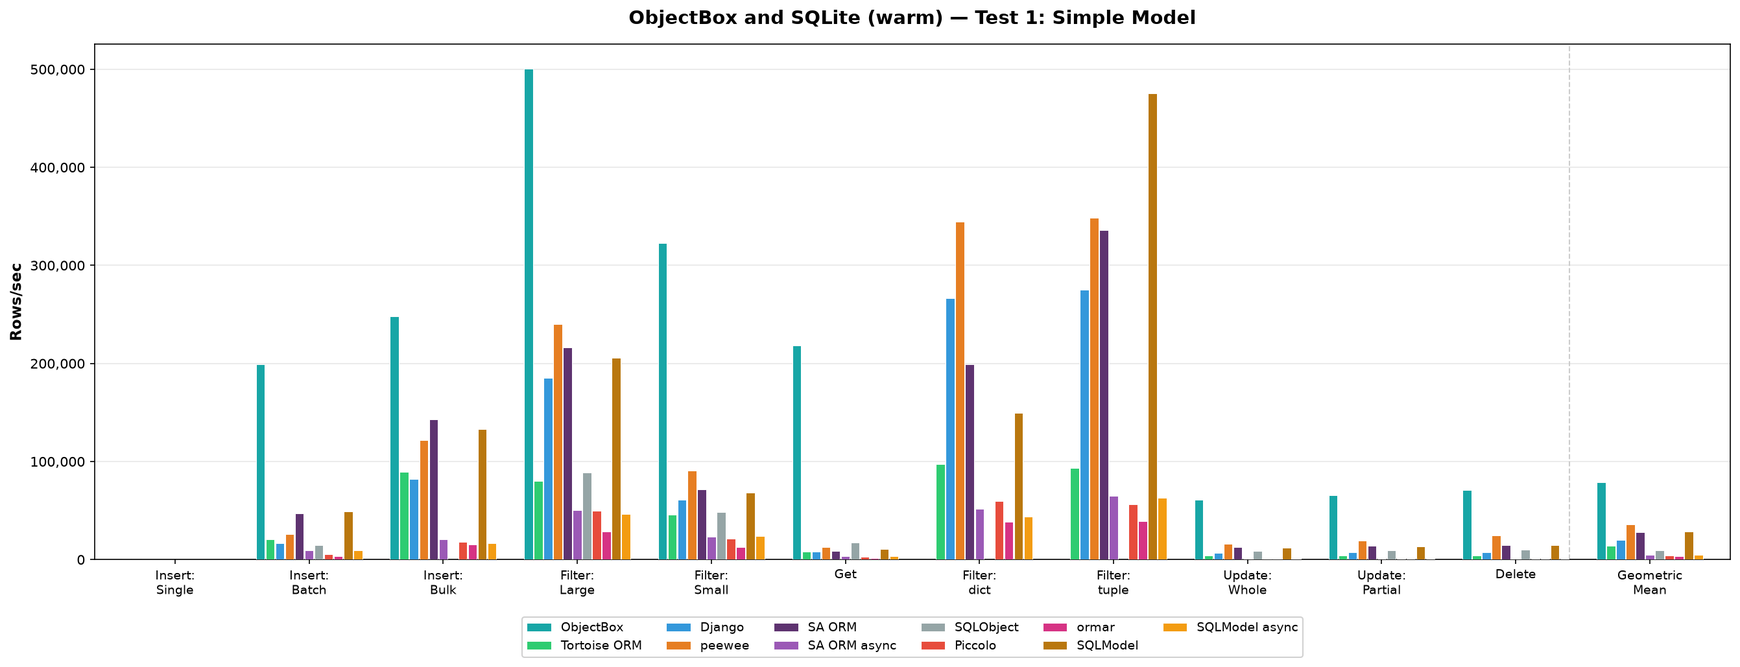
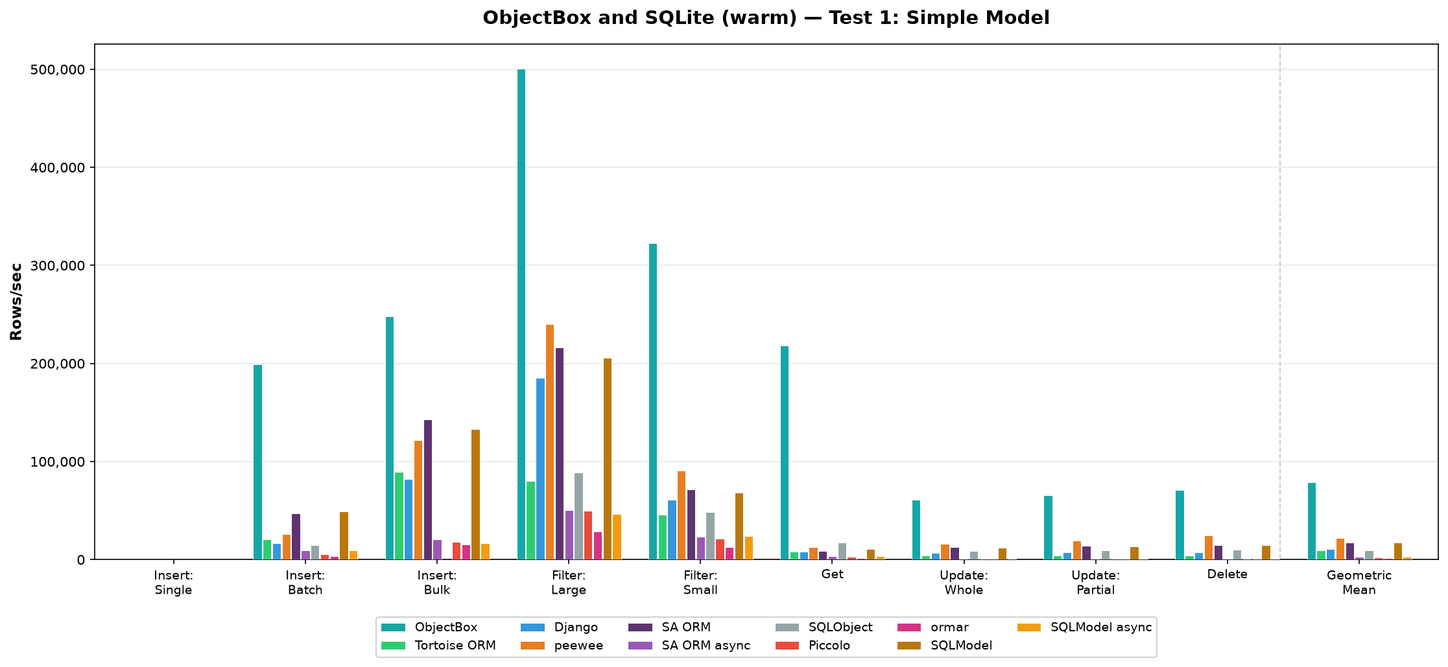
Leave Filter: dict/tuple out of the presented results
G and H return plain rows, not objects. They're still measured (the raw
results keep them), but the tables, charts and geometric means now cover
the 9 object operations (SQLObject: 8), the same set as ObjectBox.

README: regenerated tables and charts, geometric means and analysis
updated; note on peewee's and Tortoise ORM's WAL mode.

diff --git a/generate_charts.py b/generate_charts.py
@@ -41,7 +41,8 @@ ORM_COLORS = {
 }
 
 ORM_ORDER = ["ObjectBox", "Tortoise ORM", "Django", "peewee", "SA ORM", "SA ORM async", "SQLObject", "Piccolo", "ormar", "SQLModel", "SQLModel async"]
-OP_ORDER = list("ABCDEFGHIJK")
+# Filter: dict/tuple (G/H) are measured but not presented: they return plain rows, not objects
+OP_ORDER = list("ABCDEFIJK")
 
 
 def parse_results(filepath):
@@ -52,7 +53,8 @@ def parse_results(filepath):
             m = re.match(r"^\s*(?:\d+[→\t])?\s*(.+?),\s*([A-K]):\s*Rows/sec:\s*([\d.]+)", line)
             if m:
                 orm, op, val = m.group(1).strip(), m.group(2), float(m.group(3))
-                data[orm][op] = val
+                if op in OP_ORDER:
+                    data[orm][op] = val
     return dict(data)
 
 

diff --git a/generate_tables.py b/generate_tables.py
@@ -20,7 +20,8 @@ OP_LABELS = {
 }
 
 ORM_ORDER = ["Django", "peewee", "SA ORM", "SA ORM async", "SQLObject", "Tortoise ORM", "Piccolo", "ormar", "SQLModel", "SQLModel async", "ObjectBox"]
-OP_ORDER = list("ABCDEFGHIJK")
+# Filter: dict/tuple (G/H) are measured but not presented: they return plain rows, not objects
+OP_ORDER = list("ABCDEFIJK")
 
 
 def parse_results(filepath):
@@ -30,7 +31,8 @@ def parse_results(filepath):
             m = re.match(r"^\s*(?:\d+[→\t])?\s*(.+?),\s*([A-K]):\s*Rows/sec:\s*([\d.]+)", line)
             if m:
                 orm, op, val = m.group(1).strip(), m.group(2), float(m.group(3))
-                data[orm][op] = val
+                if op in OP_ORDER:
+                    data[orm][op] = val
     return dict(data)
 
 

diff --git a/README.md b/README.md
@@ -4,7 +4,7 @@ Performance benchmarks of embedded databases in Python: the object database [Obj
 
 Older results for PostgreSQL and MySQL (SQL ORMs only, earlier benchmark version, different machine) are in [postgres-mysql.md](postgres-mysql.md).
 
-Higher is better: rows (objects) per second, as the geometric mean over the operations of each test that the ORM or database supports (ObjectBox and SQLObject leave out a few, see [Setup](#setup)). Each value is the median of 5 full runs.
+Higher is better: rows (objects) per second, as the geometric mean over the 9 object operations of each test (SQLObject has no bulk insert, so its mean covers 8; see [Setup](#setup)). Each value is the median of 5 full runs.
 
 ## Overall results
 
@@ -25,20 +25,20 @@ Geometric means, cold vs. warm:
 | Database / ORM | Test 1 cold | Test 1 warm | Test 2 cold | Test 2 warm | Test 3 cold | Test 3 warm |
 |-----|------------:|------------:|------------:|------------:|------------:|------------:|
 | ObjectBox | **63,985** | **79,130** (×1.24) | **61,832** | **76,823** (×1.24) | **27,535** | **33,852** (×1.23) |
-| Django | 17,724 | 19,674 (×1.11) | 15,328 | 16,584 (×1.08) | 8,502 | 9,019 (×1.06) |
-| peewee | 32,633 | 35,901 (×1.10) | 30,257 | 33,867 (×1.12) | 13,178 | 13,862 (×1.05) |
-| SA ORM | 23,111 | 28,070 (×1.21) | 17,446 | 22,426 (×1.29) | 14,017 | 16,746 (×1.19) |
-| SA ORM async | 4,803 | 4,879 (×1.02) | 4,703 | 4,667 (×0.99) | 3,171 | 3,130 (×0.99) |
+| Django | 9,887 | 10,986 (×1.11) | 8,450 | 9,101 (×1.08) | 5,395 | 5,772 (×1.07) |
+| peewee | 19,539 | 21,691 (×1.11) | 18,323 | 20,728 (×1.13) | 8,904 | 9,407 (×1.06) |
+| SA ORM | 13,955 | 17,136 (×1.23) | 10,486 | 13,072 (×1.25) | 9,648 | 11,645 (×1.21) |
+| SA ORM async | 2,819 | 2,813 (×1.00) | 2,719 | 2,724 (×1.00) | 2,170 | 2,171 (×1.00) |
 | SQLObject | 8,364 | 9,168 (×1.10) | 8,133 | 9,065 (×1.11) | 6,174 | 6,744 (×1.09) |
-| Tortoise ORM | 14,154 | 14,266 (×1.01) | 13,949 | 14,201 (×1.02) | 8,649 | 8,905 (×1.03) |
-| Piccolo | 4,119 | 4,168 (×1.01) | 4,107 | 4,028 (×0.98) | 2,290 | 2,312 (×1.01) |
-| ormar | 3,166 | 3,153 (×1.00) | 3,076 | 3,021 (×0.98) | 1,550 | 1,583 (×1.02) |
-| SQLModel | 23,980 | 28,290 (×1.18) | 23,553 | 27,700 (×1.18) | 13,488 | 15,794 (×1.17) |
-| SQLModel async | 4,743 | 4,668 (×0.98) | 4,546 | 4,647 (×1.02) | 2,814 | 2,959 (×1.05) |
+| Tortoise ORM | 9,203 | 9,359 (×1.02) | 9,080 | 9,324 (×1.03) | 6,290 | 6,481 (×1.03) |
+| Piccolo | 2,302 | 2,324 (×1.01) | 2,294 | 2,240 (×0.98) | 1,509 | 1,534 (×1.02) |
+| ormar | 1,783 | 1,804 (×1.01) | 1,748 | 1,722 (×0.99) | 976 | 1,004 (×1.03) |
+| SQLModel | 14,372 | 17,180 (×1.20) | 14,170 | 16,834 (×1.19) | 9,318 | 11,156 (×1.20) |
+| SQLModel async | 2,751 | 2,728 (×0.99) | 2,635 | 2,752 (×1.04) | 2,013 | 2,056 (×1.02) |
 
 ### Large table (~20,000 rows)
 
-The same operations, but D–K run on ~20,100 rows instead of ~300: the untimed step that deletes most of the 20,000 rows that Insert: Batch and Insert: Bulk added is skipped (`LARGE_TABLE=1`). Filter: Large, dict and tuple return ~67x more rows per query, and Update: Whole, Update: Partial and Delete change all rows in one transaction, so its durable commit is spread over ~20,100 rows instead of ~300. Separate runs; detailed tables in [large-table.md](large-table.md).
+The same operations, but D–K run on ~20,100 rows instead of ~300: the untimed step that deletes most of the 20,000 rows that Insert: Batch and Insert: Bulk added is skipped (`LARGE_TABLE=1`). Filter: Large returns ~67x more rows per query, and Update: Whole, Update: Partial and Delete change all rows in one transaction, so its durable commit is spread over ~20,100 rows instead of ~300. Separate runs; detailed tables in [large-table.md](large-table.md).
 
 ![ObjectBox and SQLite Summary, large table](images/sqlite_large_summary.png)
 
@@ -49,16 +49,16 @@ Geometric means, large table, cold vs. warm:
 | Database / ORM | Test 1 cold | Test 1 warm | Test 2 cold | Test 2 warm | Test 3 cold | Test 3 warm |
 |-----|------------:|------------:|------------:|------------:|------------:|------------:|
 | ObjectBox | **98,011** | **108,306** (×1.11) | **90,446** | **102,911** (×1.14) | **37,444** | **40,854** (×1.09) |
-| Django | 28,753 | 29,439 (×1.02) | 23,217 | 24,057 (×1.04) | 10,745 | 10,814 (×1.01) |
-| peewee | 46,220 | 47,665 (×1.03) | 42,119 | 44,440 (×1.06) | 15,582 | 15,740 (×1.01) |
-| SA ORM | 51,155 | 52,901 (×1.03) | 27,508 | 29,874 (×1.09) | 22,292 | 23,396 (×1.05) |
-| SA ORM async | 12,490 | 12,520 (×1.00) | 9,258 | 9,178 (×0.99) | 6,495 | 6,761 (×1.04) |
+| Django | 14,215 | 14,610 (×1.03) | 11,044 | 11,444 (×1.04) | 6,770 | 6,826 (×1.01) |
+| peewee | 26,396 | 27,487 (×1.04) | 24,323 | 25,777 (×1.06) | 10,556 | 10,698 (×1.01) |
+| SA ORM | 30,336 | 31,570 (×1.04) | 14,433 | 15,863 (×1.10) | 16,556 | 17,525 (×1.06) |
+| SA ORM async | 8,211 | 8,311 (×1.01) | 5,861 | 5,917 (×1.01) | 5,468 | 5,641 (×1.03) |
 | SQLObject | 19,346 | 19,650 (×1.02) | 17,513 | 17,894 (×1.02) | 12,799 | 13,217 (×1.03) |
-| Tortoise ORM | 26,043 | 27,630 (×1.06) | 19,777 | 20,570 (×1.04) | 15,375 | 14,172 (×0.92) |
-| Piccolo | 9,564 | 9,567 (×1.00) | 7,855 | 7,868 (×1.00) | 4,320 | 4,334 (×1.00) |
-| ormar | 6,404 | 6,473 (×1.01) | 5,685 | 5,873 (×1.03) | 2,589 | 2,636 (×1.02) |
-| SQLModel | 48,900 | 50,877 (×1.04) | 47,916 | 50,326 (×1.05) | 20,603 | 21,397 (×1.04) |
-| SQLModel async | 11,712 | 11,969 (×1.02) | 11,444 | 11,327 (×0.99) | 6,320 | 6,422 (×1.02) |
+| Tortoise ORM | 18,188 | 19,637 (×1.08) | 12,974 | 13,627 (×1.05) | 12,289 | 11,396 (×0.93) |
+| Piccolo | 5,802 | 5,795 (×1.00) | 4,565 | 4,581 (×1.00) | 3,249 | 3,272 (×1.01) |
+| ormar | 3,802 | 3,845 (×1.01) | 3,366 | 3,439 (×1.02) | 1,809 | 1,842 (×1.02) |
+| SQLModel | 29,435 | 30,833 (×1.05) | 28,911 | 30,608 (×1.06) | 15,634 | 16,378 (×1.05) |
+| SQLModel async | 7,807 | 8,006 (×1.03) | 7,745 | 7,761 (×1.00) | 5,364 | 5,540 (×1.03) |
 
 ---
 
@@ -82,7 +82,7 @@ Geometric means, large table, cold vs. warm:
 
 > **Environment:** Python 3.14.6, SQLite 3.53.1 (bundled with uv's CPython build), Linux x86_64 (AMD Ryzen 9 5950X, ext4 on NVMe), 100 iterations per operation (Insert: Batch and Insert: Bulk: 10,000 objects), CPU frequency governor `performance`, 1-minute load average below 1 before each ORM run. Each value is the median of 5 full runs (2026-10-18/19; warm peewee and Tortoise ORM: 5 runs of their own on 2026-10-19 after a fix to the warm-up restore; see [raw results](raw-results/2026-10-18/), which also lists the changes since the previous results). SQLite runs with `synchronous=FULL` (its compiled-in default), so every committed transaction is synced to disk, as with ObjectBox.
 >
-> ObjectBox is an embedded object database with its own storage engine, not an ORM on top of SQL. It uses the 5.0.0b1 beta (on TestPyPI) with its experimental FlatBuffers codegen for writes and reads enabled (`OBX_CODEGEN=0` disables it). Differences to the SQL ORMs: Test 2 uses plain indexed ids (the Python binding has no relations), Test 3 stores decimals as strings, JSON as JSON strings (like the SQL ORMs store it as text) and leaves "nullable" columns unset (no NULL support), Filter: dict/tuple are not supported (no projection API), and Update: Partial writes the whole object. Its geometric mean covers 9 operations.
+> ObjectBox is an embedded object database with its own storage engine, not an ORM on top of SQL. It uses the 5.0.0b1 beta (on TestPyPI) with its experimental FlatBuffers codegen for writes and reads enabled (`OBX_CODEGEN=0` disables it). Differences to the SQL ORMs: Test 2 uses plain indexed ids (the Python binding has no relations), Test 3 stores decimals as strings, JSON as JSON strings (like the SQL ORMs store it as text) and leaves "nullable" columns unset (no NULL support), and Update: Partial writes the whole object.
 
 ### Operations
 
@@ -94,11 +94,11 @@ Geometric means, large table, cold vs. warm:
 | D | Filter: Large | Fetch a large result set |
 | E | Filter: Small | Fetch limit 20 with random offset |
 | F | Get | Fetch a single row by primary key |
-| G | Filter: dict | Fetch large result set as dicts |
-| H | Filter: tuple | Fetch large result set as tuples |
 | I | Update: Whole | Update all fields of a row |
 | J | Update: Partial | Update a single field |
 | K | Delete | Delete a single row |
+
+The suite also measures fetching a large result set as dicts (G) and as tuples (H) for the SQL ORMs; these aren't object operations, so they're left out of the tables, charts and geometric means (the raw results contain them). ObjectBox has no projection API for them.
 
 Only persisting is timed: the insert operations create the unsaved objects before the timer starts, and the update operations choose the new values before it, so creating objects (including field defaults) and generating test data don't count. SQLObject inserts the row when it creates the object, so for SQLObject only the field values are prepared; peewee's bulk insert prepares row tuples and applies defaults while inserting. Right before the timer starts, each test runs `gc.collect()` and `gc.freeze()`, so garbage from the preparation isn't collected while timed.
 
@@ -132,12 +132,10 @@ SQLite on the local filesystem (`/tmp/db.sqlite3`), ObjectBox in `/tmp/objectbox
 | Filter: Large | 172,185 | 230,507 | 190,512 | 46,331 | 83,199 | 82,249 | 47,441 | 27,313 | 181,031 | 49,166 | **461,065** | ObjectBox |
 | Filter: Small | 53,981 | 90,522 | 50,015 | 22,991 | 39,829 | 49,027 | 21,496 | 12,788 | 57,535 | 24,262 | **265,819** | ObjectBox |
 | Get | 7,354 | 12,305 | 8,319 | 3,756 | 15,592 | 8,426 | 2,499 | 1,561 | 9,905 | 3,673 | **153,835** | ObjectBox |
-| Filter: dict | 241,598 | **328,304** | 177,732 | 46,472 | — | 101,290 | 57,520 | 42,085 | 138,906 | 47,384 | — | peewee |
-| Filter: tuple | 248,635 | 327,970 | 281,642 | 60,009 | — | 95,211 | 55,587 | 41,712 | **414,894** | 63,922 | — | SQLModel |
 | Update: Whole | 5,552 | 8,638 | 8,807 | 649 | 6,335 | 3,414 | 540 | 452 | 8,610 | 649 | **21,330** | ObjectBox |
 | Update: Partial | 5,852 | 18,607 | 9,467 | 651 | 9,512 | 3,950 | 538 | 534 | 9,417 | 648 | **60,976** | ObjectBox |
 | Delete | 6,059 | 23,710 | 10,038 | 644 | 9,723 | 4,047 | 539 | 536 | 9,940 | 644 | **70,710** | ObjectBox |
-| **Geometric Mean** | 17,724 | 32,633 | 23,111 | 4,803 | 8,364 | 14,154 | 4,119 | 3,166 | 23,980 | 4,743 | **63,985** | **ObjectBox** |
+| **Geometric Mean** | 9,887 | 19,539 | 13,955 | 2,819 | 8,364 | 9,203 | 2,302 | 1,783 | 14,372 | 2,751 | **63,985** | **ObjectBox** |
 
 ### Test 2: FK Relations
 
@@ -151,12 +149,10 @@ SQLite on the local filesystem (`/tmp/db.sqlite3`), ObjectBox in `/tmp/objectbox
 | Filter: Large | 156,486 | 193,262 | 156,160 | 44,995 | 78,488 | 79,984 | 45,139 | 28,486 | 179,520 | 41,869 | **454,273** | ObjectBox |
 | Filter: Small | 57,393 | 79,682 | 43,669 | 22,416 | 39,688 | 48,582 | 20,769 | 12,112 | 55,997 | 20,114 | **246,231** | ObjectBox |
 | Get | 6,999 | 11,066 | 7,218 | 3,589 | 14,980 | 8,233 | 2,368 | 1,538 | 9,650 | 3,570 | **148,893** | ObjectBox |
-| Filter: dict | 217,295 | **285,385** | 142,523 | 49,856 | — | 99,306 | 57,239 | 39,797 | 134,178 | 45,550 | — | peewee |
-| Filter: tuple | 229,909 | 292,871 | 208,440 | 61,418 | — | 93,412 | 55,623 | 38,323 | **400,271** | 61,406 | — | SQLModel |
 | Update: Whole | 5,314 | 8,179 | 8,063 | 645 | 6,371 | 3,416 | 539 | 452 | 8,555 | 648 | **21,132** | ObjectBox |
 | Update: Partial | 5,850 | 18,258 | 8,642 | 644 | 9,628 | 3,963 | 539 | 534 | 9,361 | 647 | **59,847** | ObjectBox |
 | Delete | 2,021 | 23,182 | 2,236 | 606 | 8,969 | 3,874 | 539 | 536 | 9,999 | 644 | **67,335** | ObjectBox |
-| **Geometric Mean** | 15,328 | 30,257 | 17,446 | 4,703 | 8,133 | 13,949 | 4,107 | 3,076 | 23,553 | 4,546 | **61,832** | **ObjectBox** |
+| **Geometric Mean** | 8,450 | 18,323 | 10,486 | 2,719 | 8,133 | 9,080 | 2,294 | 1,748 | 14,170 | 2,635 | **61,832** | **ObjectBox** |
 
 ### Test 3: Wide Model (32+ fields)
 
@@ -170,12 +166,10 @@ SQLite on the local filesystem (`/tmp/db.sqlite3`), ObjectBox in `/tmp/objectbox
 | Filter: Large | 51,929 | 49,379 | 75,525 | 15,586 | 41,581 | 31,226 | 11,509 | 8,783 | 68,446 | 12,845 | **97,091** | ObjectBox |
 | Filter: Small | 25,542 | 27,156 | 29,650 | 9,843 | 26,075 | 22,567 | 8,398 | 6,142 | 31,842 | 9,509 | **73,252** | ObjectBox |
 | Get | 3,974 | 4,141 | 6,993 | 2,990 | 9,947 | 5,357 | 1,726 | 1,126 | 7,649 | 2,815 | **46,872** | ObjectBox |
-| Filter: dict | 62,719 | **75,252** | 64,287 | 16,540 | — | 37,782 | 15,389 | 11,995 | 51,745 | 11,994 | — | peewee |
-| Filter: tuple | 69,121 | 78,634 | 88,140 | 18,521 | — | 34,805 | 14,552 | 12,852 | **98,111** | 13,497 | — | SQLModel |
 | Update: Whole | 3,937 | 4,068 | 8,113 | 648 | 6,232 | 2,920 | 536 | 387 | 7,950 | 646 | **15,890** | ObjectBox |
 | Update: Partial | 5,455 | 17,860 | 8,892 | 647 | 9,232 | 3,879 | 535 | 452 | 8,773 | 646 | **31,468** | ObjectBox |
 | Delete | 5,943 | 22,974 | 9,751 | 642 | 9,504 | 3,883 | 540 | 536 | 9,690 | 640 | **68,910** | ObjectBox |
-| **Geometric Mean** | 8,502 | 13,178 | 14,017 | 3,171 | 6,174 | 8,649 | 2,290 | 1,550 | 13,488 | 2,814 | **27,535** | **ObjectBox** |
+| **Geometric Mean** | 5,395 | 8,904 | 9,648 | 2,170 | 6,174 | 6,290 | 1,509 | 976 | 9,318 | 2,013 | **27,535** | **ObjectBox** |
 
 ## Detailed results: warm
 
@@ -193,12 +187,10 @@ In the cold results, each sync ORM runs every operation in a fresh process, so t
 | Filter: Large | 185,561 | 240,095 | 216,134 | 50,272 | 88,463 | 79,936 | 49,818 | 28,321 | 205,529 | 46,168 | **500,454** | ObjectBox |
 | Filter: Small | 61,224 | 90,879 | 71,652 | 23,096 | 48,363 | 45,732 | 21,533 | 12,637 | 68,305 | 23,960 | **322,597** | ObjectBox |
 | Get | 7,809 | 12,621 | 9,055 | 3,759 | 17,170 | 8,278 | 2,493 | 1,568 | 10,863 | 3,702 | **218,056** | ObjectBox |
-| Filter: dict | 266,825 | **344,605** | 199,176 | 51,976 | — | 97,180 | 59,393 | 38,567 | 149,845 | 43,565 | — | peewee |
-| Filter: tuple | 274,820 | 348,625 | 335,947 | 64,961 | — | 93,052 | 56,224 | 39,370 | **475,527** | 62,997 | — | SQLModel |
 | Update: Whole | 6,712 | 15,787 | 12,535 | 650 | 9,079 | 3,856 | 539 | 533 | 12,240 | 648 | **60,973** | ObjectBox |
 | Update: Partial | 7,192 | 19,418 | 13,725 | 650 | 9,716 | 3,952 | 539 | 534 | 13,574 | 647 | **65,738** | ObjectBox |
 | Delete | 7,490 | 24,670 | 14,720 | 645 | 9,834 | 4,038 | 539 | 536 | 14,808 | 644 | **71,174** | ObjectBox |
-| **Geometric Mean** | 19,674 | 35,901 | 28,070 | 4,879 | 9,168 | 14,266 | 4,168 | 3,153 | 28,290 | 4,668 | **79,130** | **ObjectBox** |
+| **Geometric Mean** | 10,986 | 21,691 | 17,136 | 2,813 | 9,168 | 9,359 | 2,324 | 1,804 | 17,180 | 2,728 | **79,130** | **ObjectBox** |
 
 ### Test 2: FK Relations
 
@@ -212,12 +204,10 @@ In the cold results, each sync ORM runs every operation in a fresh process, so t
 | Filter: Large | 168,837 | 202,751 | 211,613 | 46,175 | 86,462 | 79,001 | 46,219 | 28,793 | 197,596 | 48,154 | **489,132** | ObjectBox |
 | Filter: Small | 63,013 | 89,639 | 72,104 | 21,997 | 53,383 | 49,204 | 19,783 | 12,033 | 65,521 | 21,334 | **322,790** | ObjectBox |
 | Get | 7,409 | 11,842 | 8,767 | 3,601 | 16,777 | 8,141 | 2,362 | 1,525 | 10,840 | 3,614 | **216,146** | ObjectBox |
-| Filter: dict | 238,837 | **309,307** | 198,063 | 49,522 | — | 97,114 | 57,435 | 39,456 | 146,901 | 45,277 | — | peewee |
-| Filter: tuple | 255,019 | 307,703 | 326,786 | 55,993 | — | 91,621 | 55,477 | 36,397 | **462,013** | 53,325 | — | SQLModel |
 | Update: Whole | 6,439 | 14,253 | 11,261 | 646 | 9,035 | 3,824 | 538 | 452 | 12,369 | 648 | **61,255** | ObjectBox |
 | Update: Partial | 7,150 | 19,044 | 12,278 | 645 | 9,755 | 3,986 | 539 | 534 | 13,685 | 648 | **64,840** | ObjectBox |
 | Delete | 2,011 | 23,909 | 2,477 | 594 | 9,049 | 3,874 | 540 | 536 | 14,763 | 644 | **68,849** | ObjectBox |
-| **Geometric Mean** | 16,584 | 33,867 | 22,426 | 4,667 | 9,065 | 14,201 | 4,028 | 3,021 | 27,700 | 4,647 | **76,823** | **ObjectBox** |
+| **Geometric Mean** | 9,101 | 20,728 | 13,072 | 2,724 | 9,065 | 9,324 | 2,240 | 1,722 | 16,834 | 2,752 | **76,823** | **ObjectBox** |
 
 ### Test 3: Wide Model (32+ fields)
 
@@ -231,34 +221,32 @@ In the cold results, each sync ORM runs every operation in a fresh process, so t
 | Filter: Large | 53,704 | 50,369 | 85,741 | 17,147 | 44,112 | 31,579 | 11,740 | 8,548 | 77,616 | 13,810 | **102,670** | ObjectBox |
 | Filter: Small | 26,840 | 29,558 | 41,605 | 11,267 | 30,812 | 21,733 | 8,889 | 5,838 | 39,789 | 10,035 | **89,600** | ObjectBox |
 | Get | 3,983 | 4,225 | 7,835 | 2,965 | 10,888 | 5,340 | 1,736 | 1,104 | 8,804 | 2,891 | **80,120** | ObjectBox |
-| Filter: dict | 64,555 | **77,931** | 72,511 | 16,248 | — | 38,863 | 15,081 | 12,548 | 54,757 | 13,364 | — | peewee |
-| Filter: tuple | 69,960 | 80,827 | 101,691 | 16,199 | — | 35,623 | 14,240 | 11,990 | **104,108** | 17,396 | — | SQLModel |
 | Update: Whole | 4,423 | 5,049 | 11,385 | 648 | 8,793 | 3,524 | 535 | 445 | 11,174 | 646 | **36,597** | ObjectBox |
 | Update: Partial | 6,485 | 18,298 | 12,453 | 648 | 9,509 | 3,963 | 536 | 532 | 12,395 | 646 | **38,641** | ObjectBox |
 | Delete | 7,293 | 23,703 | 14,208 | 643 | 9,609 | 4,039 | 539 | 536 | 14,172 | 642 | **71,018** | ObjectBox |
-| **Geometric Mean** | 9,019 | 13,862 | 16,746 | 3,130 | 6,744 | 8,905 | 2,312 | 1,583 | 15,794 | 2,959 | **33,852** | **ObjectBox** |
+| **Geometric Mean** | 5,772 | 9,407 | 11,645 | 2,171 | 6,744 | 6,481 | 1,534 | 1,004 | 11,156 | 2,056 | **33,852** | **ObjectBox** |
 
 ---
 
 ## Analysis
 
-### Cold: ObjectBox about 2x the best SQL ORM
+### Cold: ObjectBox about 3x the best SQL ORM
 
-ObjectBox (embedded object database, experimental codegen for writes and reads) has the best geometric mean in all three tests, about 2x the best SQL ORM (63,985 vs peewee's 32,633, 61,832 vs peewee's 30,257 and 27,535 vs SA ORM's 14,017), though its mean leaves out Filter: dict/tuple, peewee's and SQLModel's strongest operations. It is fastest in every operation it runs: Get by 4.7–9.9x over the runner-up (SQLObject), Filter: Small by 2.3–3.1x, Filter: Large by 1.3–2.4x; Insert: Batch by 2.5–4.0x, Insert: Bulk by 1.2–1.8x, updates and deletes by 1.8–3.3x; Insert: Single (one synced commit each) by 1.3–1.5x over peewee and Tortoise ORM.
+ObjectBox (embedded object database, experimental codegen for writes and reads) has the best geometric mean in all three tests, 2.9–3.4x the best SQL ORM (63,985 vs peewee's 19,539, 61,832 vs peewee's 18,323 and 27,535 vs SA ORM's 9,648). It is fastest in every operation: Get by 4.7–9.9x over the runner-up (SQLObject), Filter: Small by 2.3–3.1x, Filter: Large by 1.3–2.4x; Insert: Batch by 2.5–4.0x, Insert: Bulk by 1.2–1.8x, updates and deletes by 1.8–3.3x; Insert: Single (one synced commit each) by 1.3–1.5x over peewee and Tortoise ORM.
 
-Among the SQL ORMs, peewee has the best geometric mean on Tests 1 and 2; on the wide model (Test 3), SA ORM (14,017) and SQLModel (13,488) are ahead of peewee (13,178). With 10,000 objects per transaction, the insert paths differ much more than with 100: SA ORM and SQLModel insert a batch at ~46,000 rows/sec on Test 1 (peewee ~26,000, Django ~16,000), and each SQL ORM's bulk insert is 2–5x faster than its batch insert (ObjectBox: 1.1–1.3x; its batch insert is already faster than any SQL ORM's bulk insert).
+Among the SQL ORMs, peewee has the best geometric mean on Tests 1 and 2, followed by SQLModel and SA ORM; on the wide model (Test 3), SA ORM (9,648) and SQLModel (9,318) are ahead of peewee (8,904). peewee and Tortoise ORM run SQLite in WAL mode, the others with SQLite's default rollback journal: with one durable commit per row, Insert: Single is ~3x faster in WAL mode (160 vs 46–54 rows/sec), so their write results include that advantage. With 10,000 objects per transaction, the insert paths differ much more than with 100: SA ORM and SQLModel insert a batch at ~46,000 rows/sec on Test 1 (peewee ~26,000, Django ~16,000), and each SQL ORM's bulk insert is 2–5x faster than its batch insert (ObjectBox: 1.1–1.3x; its batch insert is already faster than any SQL ORM's bulk insert).
 
-On SQLite, async adds overhead without any concurrency to gain (one writer at a time). The sync variants of SA ORM and SQLModel are 2–7x faster than their async variants on reads, 2.5–7x on batch/bulk inserts and 12–16x on updates and deletes (SA ORM's Delete on Test 2: 3.7x); single inserts, one synced commit each, are about the same. Tortoise ORM is the fastest async ORM, close to Django. Sync SQLModel has the fastest Filter: tuple and peewee the fastest Filter: dict in all three tests.
+On SQLite, async adds overhead without any concurrency to gain (one writer at a time). The sync variants of SA ORM and SQLModel are 2–5x faster than their async variants on reads, 2.5–7x on batch/bulk inserts and 12–16x on updates and deletes (SA ORM's Delete on Test 2: 3.7x); single inserts, one synced commit each, are about the same. Tortoise ORM is the fastest async ORM, on par with Django (ahead on Tests 2 and 3).
 
 Insert: Bulk returns the new IDs only for Django, Piccolo and ObjectBox (see [Operations](#operations)); the others' bulk paths leave the objects without IDs.
 
 ### Warm: sync ORMs and ObjectBox gain, the order stays
 
-With a warm-up run, the sync ORMs' geometric means rise by 5–29% (SA ORM and SQLModel most), ObjectBox's by 23–24%; the async ORMs stay within ±5%: they run all operations in one process anyway, so earlier operations already paid most one-time costs. Insert: Single, bound by one synced commit per row, doesn't change. ObjectBox has the best geometric mean in all three tests, 2.0–2.3x the best SQL ORM (79,130 / 76,823 / 33,852 vs peewee's 35,901 / 33,867 and SA ORM's 16,746 on Test 3). Its biggest gains are Update: Whole (2.3–2.9x faster than cold) and Get (1.4–1.7x).
+With a warm-up run, the sync ORMs' geometric means rise by 6–25% (SA ORM and SQLModel most), ObjectBox's by 23–24%; the async ORMs stay within ±4%: they run all operations in one process anyway, so earlier operations already paid most one-time costs. Insert: Single, bound by one synced commit per row, doesn't change. ObjectBox has the best geometric mean in all three tests, 2.9–3.7x the best SQL ORM (79,130 / 76,823 / 33,852 vs peewee's 21,691 / 20,728 and SA ORM's 11,645 on Test 3). Its biggest gains are Update: Whole (2.3–2.9x faster than cold) and Get (1.4–1.7x).
 
 ### Large table: the commit is amortized, ObjectBox stays ahead
 
-With ~20,100 rows, updates and deletes spread their one durable commit over 67x more rows, so most ORMs' geometric means rise 1.2–2.6x; ObjectBox again has the best one in all three tests, 1.7–1.9x the best SQL ORM cold (98,011 vs SA ORM's 51,155, 90,446 vs SQLModel's 47,916, 37,444 vs SA ORM's 22,292) and 1.7–2.1x warm. Among the SQL ORMs, SA ORM leads on Tests 1 and 3 and SQLModel on Test 2 (where SA ORM's Delete holds it back); peewee follows. Among the SQL ORMs, SQLObject has the fastest updates; on Test 3 it edges out ObjectBox on Update: Partial (57,789 vs 56,683 rows/sec). peewee is ~10% faster than ObjectBox on Filter: Small on Test 1 (122,009 vs 110,913) and on par on Test 2: ObjectBox's limit/offset query gets slower with ~4,000 instead of ~60 matching rows per level (266k rows/sec on the default table), while SQLite's index scan stops after the offset and 20 rows. Django has the fastest Filter: dict on Tests 1 and 2, and SQLModel passes a million rows/sec on Filter: tuple.
+With ~20,100 rows, updates and deletes spread their one durable commit over 67x more rows, so the geometric means rise 1.1–2.9x; ObjectBox again has the best one in all three tests, 2.3–3.2x the best SQL ORM cold (98,011 vs SA ORM's 30,336, 90,446 vs SQLModel's 28,911, 37,444 vs SA ORM's 16,556) and 2.3–3.4x warm. Among the SQL ORMs, SA ORM leads on Tests 1 and 3 and SQLModel on Test 2 (where SA ORM's Delete holds it back); peewee follows. Among the SQL ORMs, SQLObject has the fastest updates; on Test 3 it edges out ObjectBox on Update: Partial (57,789 vs 56,683 rows/sec). peewee is ~10% faster than ObjectBox on Filter: Small on Test 1 (122,009 vs 110,913) and on par on Test 2: ObjectBox's limit/offset query gets slower with ~4,000 instead of ~60 matching rows per level (266k rows/sec on the default table), while SQLite's index scan stops after the offset and 20 rows.
 
 Delete on Test 2 (FK relations) is the slowest operation on the large table for SA ORM (1,143 rows/sec), SA ORM async (1,272), Piccolo (1,434), Tortoise ORM (1,522), ormar (2,169) and Django (2,424), while peewee, SQLModel and SQLObject delete 44,000–102,000 rows/sec. SA ORM and Tortoise ORM get 2.0x and 2.5x slower per row than on ~300 rows (2,236 and 3,874); the likely cause is per-row lookups of related rows (children through the self-reference, M2M links) that grow with the table: in the SA ORM model, the self-referencing `parent_id` has no index.
 
@@ -266,14 +254,14 @@ One more effect of the larger batches: the rows deleted after Insert: Batch and 
 
 ### Key takeaways
 
-- **ObjectBox**: 1.7–2.3x the best SQL ORM's geometric mean (cold, warm and large table; without the dict/tuple operations); fastest in every operation it runs except, on the large table, Filter: Small on Test 1 (peewee) and Update: Partial on Test 3 (SQLObject, 2% ahead)
+- **ObjectBox**: 2.3–3.7x the best SQL ORM's geometric mean (cold, warm and large table); fastest in every operation it runs except, on the large table, Filter: Small on Test 1 (peewee) and Update: Partial on Test 3 (SQLObject, 2% ahead)
 - **Batch sizes matter**: with 100 objects per transaction, batch and bulk inserts mostly measure one durable commit (~8 ms); with 10,000, the SQL ORMs' bulk inserts are 2–5x faster than their batch inserts, and the sync SQL ORMs' batch inserts differ up to 3x
 - **SQL ORMs on SQLite**: peewee and the sync variants of SA ORM and SQLModel are fastest (peewee on the simple models, SA ORM and SQLModel on the wide model and the large table), followed by Django; async adds overhead without any concurrency to gain
-- **SA ORM async / SQLModel async** (aiosqlite): 2–7x slower than their sync variants on reads, 2.5–7x on batch/bulk inserts and 12–16x on updates and deletes. SQLModel tracks closely with SA ORM (expected — it's a thin wrapper around SQLAlchemy)
+- **SA ORM async / SQLModel async** (aiosqlite): 2–5x slower than their sync variants on reads, 2.5–7x on batch/bulk inserts and 12–16x on updates and deletes. SQLModel tracks closely with SA ORM (expected — it's a thin wrapper around SQLAlchemy)
 - **Bulk insert and IDs**: only Django, Piccolo and ObjectBox set the new IDs on bulk-inserted objects
 - **Tortoise ORM**: the fastest async ORM on SQLite
 - **ormar**: Pydantic validation overhead causes significant slowdown, especially on wide models (Test 3)
-- **SQLObject**: no bulk insert and no dict/tuple filters; fast on Get, and the fastest SQL ORM on updates on the large table
+- **SQLObject**: no bulk insert; fast on Get, and the fastest SQL ORM on updates on the large table
 
 ## Running the benchmarks
 

diff --git a/large-table.md b/large-table.md
@@ -2,7 +2,7 @@
 
 Detailed results of the large-table runs (`LARGE_TABLE=1`); summary, setup and the default results (~300 rows) are in the [README](README.md).
 
-The only difference from the default runs: after Insert: Batch and Insert: Bulk (10,000 objects each), the untimed step that deletes the newest 9,900 rows again is skipped, so D–K run on ~20,100 rows instead of ~300. Filter: Large, Filter: dict and Filter: tuple return ~67x more rows per query; Filter: Small (20 rows) and Get (one row) fetch the same as before from a larger table; Update: Whole, Update: Partial and Delete update or delete all rows in one transaction each, so one durable commit is spread over ~20,100 rows instead of ~300. A–C don't depend on the table size (they run before it differs); their values here come from separate runs, so they differ slightly from the default results. Same machine, versions and settings (`ITERATIONS=100`, `BATCH_SIZE=10000`); each value is the median of 5 full runs ([raw results](raw-results/2026-10-18/)).
+The only difference from the default runs: after Insert: Batch and Insert: Bulk (10,000 objects each), the untimed step that deletes the newest 9,900 rows again is skipped, so D–K run on ~20,100 rows instead of ~300. Filter: Large returns ~67x more rows per query; Filter: Small (20 rows) and Get (one row) fetch the same as before from a larger table; Update: Whole, Update: Partial and Delete update or delete all rows in one transaction each, so one durable commit is spread over ~20,100 rows instead of ~300. A–C don't depend on the table size (they run before it differs); their values here come from separate runs, so they differ slightly from the default results. Same machine, versions and settings (`ITERATIONS=100`, `BATCH_SIZE=10000`); each value is the median of 5 full runs ([raw results](raw-results/2026-10-18/)).
 
 Tortoise ORM's Update: Whole, Update: Partial and Delete on Test 3 alternate between two levels from run to run, in cold and warm runs alike (e.g. Update: Whole ~13,200 or ~17,500 rows/sec), so their medians, and the cold/warm difference of its Test 3 geometric mean (×0.92), depend on which level the majority of the 5 runs hit.
 
@@ -23,12 +23,10 @@ Tortoise ORM's Update: Whole, Update: Partial and Delete on Test 3 alternate bet
 | Filter: Large | 305,005 | 329,779 | 322,523 | 58,575 | 88,921 | 99,189 | 73,125 | 38,310 | 265,966 | 54,332 | **521,500** | ObjectBox |
 | Filter: Small | 82,643 | **122,009** | 80,093 | 28,020 | 62,051 | 55,982 | 28,478 | 16,070 | 81,012 | 28,273 | 110,913 | peewee |
 | Get | 7,327 | 12,126 | 8,605 | 3,736 | 15,523 | 8,428 | 2,479 | 1,541 | 9,726 | 3,654 | **152,299** | ObjectBox |
-| Filter: dict | **640,041** | 562,356 | 289,302 | 76,568 | — | 137,684 | 93,376 | 67,634 | 192,290 | 56,387 | — | Django |
-| Filter: tuple | 732,390 | 587,728 | 997,193 | 88,805 | — | 124,668 | 88,008 | 66,220 | **1,198,357** | 93,605 | — | SQLModel |
 | Update: Whole | 11,077 | 21,867 | 44,227 | 9,440 | 47,369 | 21,225 | 6,639 | 3,369 | 40,268 | 9,051 | **167,257** | ObjectBox |
 | Update: Partial | 12,742 | 30,911 | 67,911 | 20,353 | 72,875 | 27,020 | 6,805 | 4,003 | 62,355 | 16,223 | **196,449** | ObjectBox |
 | Delete | 13,507 | 45,471 | 104,592 | 14,541 | 82,797 | 30,077 | 6,888 | 5,007 | 102,114 | 15,588 | **327,410** | ObjectBox |
-| **Geometric Mean** | 28,753 | 46,220 | 51,155 | 12,490 | 19,346 | 26,043 | 9,564 | 6,404 | 48,900 | 11,712 | **98,011** | **ObjectBox** |
+| **Geometric Mean** | 14,215 | 26,396 | 30,336 | 8,211 | 19,346 | 18,188 | 5,802 | 3,802 | 29,435 | 7,807 | **98,011** | **ObjectBox** |
 
 ### Test 2: FK Relations
 
@@ -42,12 +40,10 @@ Tortoise ORM's Update: Whole, Update: Partial and Delete on Test 3 alternate bet
 | Filter: Large | 266,765 | 268,512 | 308,446 | 57,407 | 85,249 | 98,226 | 68,651 | 39,750 | 267,896 | 45,349 | **488,343** | ObjectBox |
 | Filter: Small | 76,388 | 106,769 | 61,193 | 28,282 | 59,115 | 57,053 | 26,502 | 15,668 | 79,147 | 27,626 | **107,698** | ObjectBox |
 | Get | 6,930 | 11,036 | 7,063 | 3,541 | 14,883 | 8,343 | 2,322 | 1,513 | 9,584 | 3,526 | **143,322** | ObjectBox |
-| Filter: dict | **614,912** | 494,935 | 275,246 | 69,034 | — | 137,062 | 92,416 | 58,410 | 186,467 | 57,398 | — | Django |
-| Filter: tuple | 703,103 | 501,898 | 912,370 | 75,978 | — | 126,857 | 88,177 | 61,852 | **1,161,820** | 76,561 | — | SQLModel |
 | Update: Whole | 10,287 | 18,796 | 26,560 | 8,531 | 46,958 | 20,650 | 5,832 | 3,411 | 39,806 | 8,811 | **159,698** | ObjectBox |
 | Update: Partial | 12,504 | 29,559 | 34,329 | 15,786 | 73,690 | 27,077 | 5,788 | 4,007 | 60,132 | 17,525 | **188,210** | ObjectBox |
 | Delete | 2,424 | 44,159 | 1,143 | 1,272 | 46,300 | 1,522 | 1,434 | 2,169 | 101,760 | 16,302 | **276,134** | ObjectBox |
-| **Geometric Mean** | 23,217 | 42,119 | 27,508 | 9,258 | 17,513 | 19,777 | 7,855 | 5,685 | 47,916 | 11,444 | **90,446** | **ObjectBox** |
+| **Geometric Mean** | 11,044 | 24,323 | 14,433 | 5,861 | 17,513 | 12,974 | 4,565 | 3,366 | 28,911 | 7,745 | **90,446** | **ObjectBox** |
 
 ### Test 3: Wide Model (32+ fields)
 
@@ -61,12 +57,10 @@ Tortoise ORM's Update: Whole, Update: Partial and Delete on Test 3 alternate bet
 | Filter: Large | 56,974 | 53,845 | 74,189 | 11,922 | 42,100 | 29,131 | 12,183 | 7,900 | 63,591 | 11,638 | **90,685** | ObjectBox |
 | Filter: Small | 32,011 | 33,010 | 42,031 | 10,256 | 33,125 | 23,434 | 9,788 | 5,808 | 40,667 | 10,221 | **52,562** | ObjectBox |
 | Get | 3,914 | 4,137 | 6,760 | 2,899 | 9,785 | 5,395 | 1,718 | 1,082 | 7,517 | 2,835 | **45,349** | ObjectBox |
-| Filter: dict | 81,666 | **88,295** | 62,501 | 13,342 | — | 43,745 | 15,682 | 13,413 | 46,663 | 11,756 | — | peewee |
-| Filter: tuple | 90,354 | 91,514 | **115,639** | 14,880 | — | 40,597 | 15,447 | 12,556 | 109,036 | 14,854 | — | SA ORM |
 | Update: Whole | 5,954 | 5,474 | 27,545 | 9,809 | 39,140 | 16,394 | 4,156 | 1,839 | 26,108 | 9,089 | **51,895** | ObjectBox |
 | Update: Partial | 10,099 | 26,701 | 36,894 | 14,628 | **57,789** | 31,563 | 4,434 | 3,415 | 35,156 | 14,443 | 56,683 | SQLObject |
 | Delete | 12,199 | 40,734 | 69,947 | 13,104 | 66,613 | 35,969 | 7,188 | 5,008 | 69,600 | 13,744 | **297,729** | ObjectBox |
-| **Geometric Mean** | 10,745 | 15,582 | 22,292 | 6,495 | 12,799 | 15,375 | 4,320 | 2,589 | 20,603 | 6,320 | **37,444** | **ObjectBox** |
+| **Geometric Mean** | 6,770 | 10,556 | 16,556 | 5,468 | 12,799 | 12,289 | 3,249 | 1,809 | 15,634 | 5,364 | **37,444** | **ObjectBox** |
 
 <!-- /tables -->
 
@@ -89,12 +83,10 @@ Each operation first runs once untimed in the same process, the database is rest
 | Filter: Large | 304,867 | 328,208 | 316,873 | 66,379 | 88,127 | 97,817 | 75,114 | 37,345 | 274,713 | 59,426 | **519,198** | ObjectBox |
 | Filter: Small | 89,762 | **131,640** | 93,961 | 30,917 | 69,947 | 57,648 | 28,949 | 16,483 | 95,223 | 28,643 | 118,812 | peewee |
 | Get | 7,940 | 12,720 | 9,062 | 3,679 | 16,809 | 8,272 | 2,487 | 1,563 | 10,720 | 3,676 | **215,479** | ObjectBox |
-| Filter: dict | **651,109** | 568,092 | 293,800 | 73,175 | — | 133,689 | 93,494 | 64,484 | 192,199 | 64,537 | — | Django |
-| Filter: tuple | 728,893 | 567,109 | 992,201 | 85,538 | — | 123,452 | 89,148 | 70,670 | **1,221,146** | 82,878 | — | SQLModel |
 | Update: Whole | 11,151 | 21,961 | 43,987 | 9,529 | 47,266 | 21,888 | 6,648 | 3,410 | 41,187 | 9,637 | **167,770** | ObjectBox |
 | Update: Partial | 12,897 | 31,138 | 68,876 | 19,954 | 71,377 | 35,890 | 6,641 | 4,002 | 63,023 | 19,007 | **200,501** | ObjectBox |
 | Delete | 13,592 | 46,946 | 107,129 | 14,509 | 81,274 | 40,207 | 6,959 | 5,011 | 102,970 | 15,387 | **383,008** | ObjectBox |
-| **Geometric Mean** | 29,439 | 47,665 | 52,901 | 12,520 | 19,650 | 27,630 | 9,567 | 6,473 | 50,877 | 11,969 | **108,306** | **ObjectBox** |
+| **Geometric Mean** | 14,610 | 27,487 | 31,570 | 8,311 | 19,650 | 19,637 | 5,795 | 3,845 | 30,833 | 8,006 | **108,306** | **ObjectBox** |
 
 ### Test 2: FK Relations
 
@@ -108,12 +100,10 @@ Each operation first runs once untimed in the same process, the database is rest
 | Filter: Large | 270,115 | 279,242 | 315,794 | 61,140 | 86,765 | 97,095 | 69,287 | 38,351 | 270,053 | 54,017 | **502,569** | ObjectBox |
 | Filter: Small | 84,802 | **117,851** | 89,985 | 28,973 | 65,701 | 58,295 | 26,710 | 16,711 | 96,211 | 29,062 | 116,609 | peewee |
 | Get | 7,464 | 11,592 | 8,688 | 3,587 | 16,432 | 8,152 | 2,333 | 1,530 | 11,015 | 3,591 | **216,034** | ObjectBox |
-| Filter: dict | **637,972** | 513,165 | 280,025 | 60,163 | — | 136,031 | 91,238 | 64,157 | 188,694 | 47,935 | — | Django |
-| Filter: tuple | 727,280 | 517,866 | 949,600 | 72,800 | — | 126,569 | 88,229 | 66,528 | **1,178,786** | 80,418 | — | SQLModel |
 | Update: Whole | 10,540 | 19,176 | 27,249 | 8,748 | 46,481 | 21,207 | 5,781 | 3,410 | 40,128 | 9,683 | **167,128** | ObjectBox |
 | Update: Partial | 12,796 | 30,330 | 34,733 | 15,210 | 71,135 | 37,783 | 5,841 | 4,012 | 62,393 | 16,244 | **192,572** | ObjectBox |
 | Delete | 2,474 | 45,477 | 1,158 | 1,260 | 46,291 | 1,541 | 1,444 | 2,242 | 105,864 | 14,965 | **322,492** | ObjectBox |
-| **Geometric Mean** | 24,057 | 44,440 | 29,874 | 9,178 | 17,894 | 20,570 | 7,868 | 5,873 | 50,326 | 11,327 | **102,911** | **ObjectBox** |
+| **Geometric Mean** | 11,444 | 25,777 | 15,863 | 5,917 | 17,894 | 13,627 | 4,581 | 3,439 | 30,608 | 7,761 | **102,911** | **ObjectBox** |
 
 ### Test 3: Wide Model (32+ fields)
 
@@ -127,11 +117,9 @@ Each operation first runs once untimed in the same process, the database is rest
 | Filter: Large | 57,864 | 52,972 | 74,547 | 12,584 | 42,911 | 27,671 | 12,331 | 7,893 | 63,672 | 12,017 | **92,435** | ObjectBox |
 | Filter: Small | 33,728 | 33,802 | 51,400 | 12,681 | 36,526 | 24,548 | 9,474 | 6,530 | 47,368 | 11,398 | **60,100** | ObjectBox |
 | Get | 3,988 | 4,135 | 7,938 | 2,933 | 10,810 | 5,315 | 1,711 | 1,101 | 8,800 | 2,859 | **77,122** | ObjectBox |
-| Filter: dict | 81,110 | **86,782** | 63,580 | 14,042 | — | 39,285 | 15,405 | 13,372 | 47,127 | 11,591 | — | peewee |
-| Filter: tuple | 90,728 | 92,280 | **115,939** | 16,634 | — | 36,371 | 15,313 | 13,127 | 107,730 | 13,450 | — | SA ORM |
 | Update: Whole | 5,745 | 5,408 | 27,849 | 8,655 | 39,368 | 13,231 | 4,245 | 1,821 | 26,358 | 9,059 | **55,036** | ObjectBox |
 | Update: Partial | 10,143 | 27,250 | 37,466 | 13,956 | **58,496** | 24,871 | 4,090 | 3,413 | 35,724 | 14,166 | 57,397 | SQLObject |
 | Delete | 12,162 | 42,110 | 73,049 | 12,956 | 67,007 | 27,159 | 7,200 | 5,011 | 71,316 | 13,932 | **289,596** | ObjectBox |
-| **Geometric Mean** | 10,814 | 15,740 | 23,396 | 6,761 | 13,217 | 14,172 | 4,334 | 2,636 | 21,397 | 6,422 | **40,854** | **ObjectBox** |
+| **Geometric Mean** | 6,826 | 10,698 | 17,525 | 5,641 | 13,217 | 11,396 | 3,272 | 1,842 | 16,378 | 5,540 | **40,854** | **ObjectBox** |
 
 <!-- /tables -->

diff --git a/AGENTS.md b/AGENTS.md
@@ -55,7 +55,7 @@ DB setup (`benchmarks/db.sh`): SQLite uses `/tmp/db.sqlite3`. Postgres needs `ps
 
 ## Architecture
 
-- **One directory per ORM** under `benchmarks/<orm>/`, each with `models.py`, `bench.sh` and `test_a.py` … `test_k.py`, one file per operation (A = single insert … K = delete; the operation table is in README.md). Some ORMs leave out operations they don't support (e.g. SQLObject has no C/G/H, Pony has no C).
+- **One directory per ORM** under `benchmarks/<orm>/`, each with `models.py`, `bench.sh` and `test_a.py` … `test_k.py`, one file per operation (A = single insert … K = delete; the operation table is in README.md). G/H (dict/tuple projections) are measured but not presented: `generate_tables.py`/`generate_charts.py` leave them out of the tables, charts and geometric means (`OP_ORDER`). Some ORMs leave out operations they don't support (e.g. SQLObject has no C/G/H, Pony has no C).
 - **Test model selection**: every `models.py` reads `TEST` from the env at import time and defines a different `Journal` model for it: 1 = simple 4-field model, 2 = self-FK + M2M, 3 = wide model with 32+ fields. A model change has to be made in all ORM directories so the comparison stays fair.
 - **Sync vs async runners**: sync ORMs (django, peewee, sqlobject, pony, sqlalchemy, sqlmodel_sync, objectbox) run each `test_*.py` as a separate process from `bench.sh` (`run test_x`: `python -m test_x`, or `../warmup.py` with `WARMUP=1`), after a `set_up.py`/migrate step. Async ORMs (tortoise, piccolo, ormar, sqlalchemy_async, sqlmodel) have a `bench.py` that builds the DB URL from env, creates the schema and awaits each test module's `runtest(loopstr)`. Each async test fans out across `CONCURRENTS` coroutines with `asyncio.gather`.
 - **Timed section**: only persisting is timed. Insert tests (A/B/C) create the unsaved objects before `start = time.time()` and the timed loop only saves them (e.g. `obj.save(force_insert=True)` instead of `objects.create(...)`); update tests (I/J) choose the new values before the timer. SQLObject inserts in its constructor, so only its field values are prepared; peewee's C prepares row tuples. Async tests build one list per concurrent task inside `runtest()` (not at module level), so the warm-up run gets fresh objects. Right before the timer, every test calls `gc.collect()` and `gc.freeze()`, so leftovers from the preparation (or the warm-up run) aren't collected while timed and existing objects stay out of collections. Keep this when adding an ORM or changing a test.
